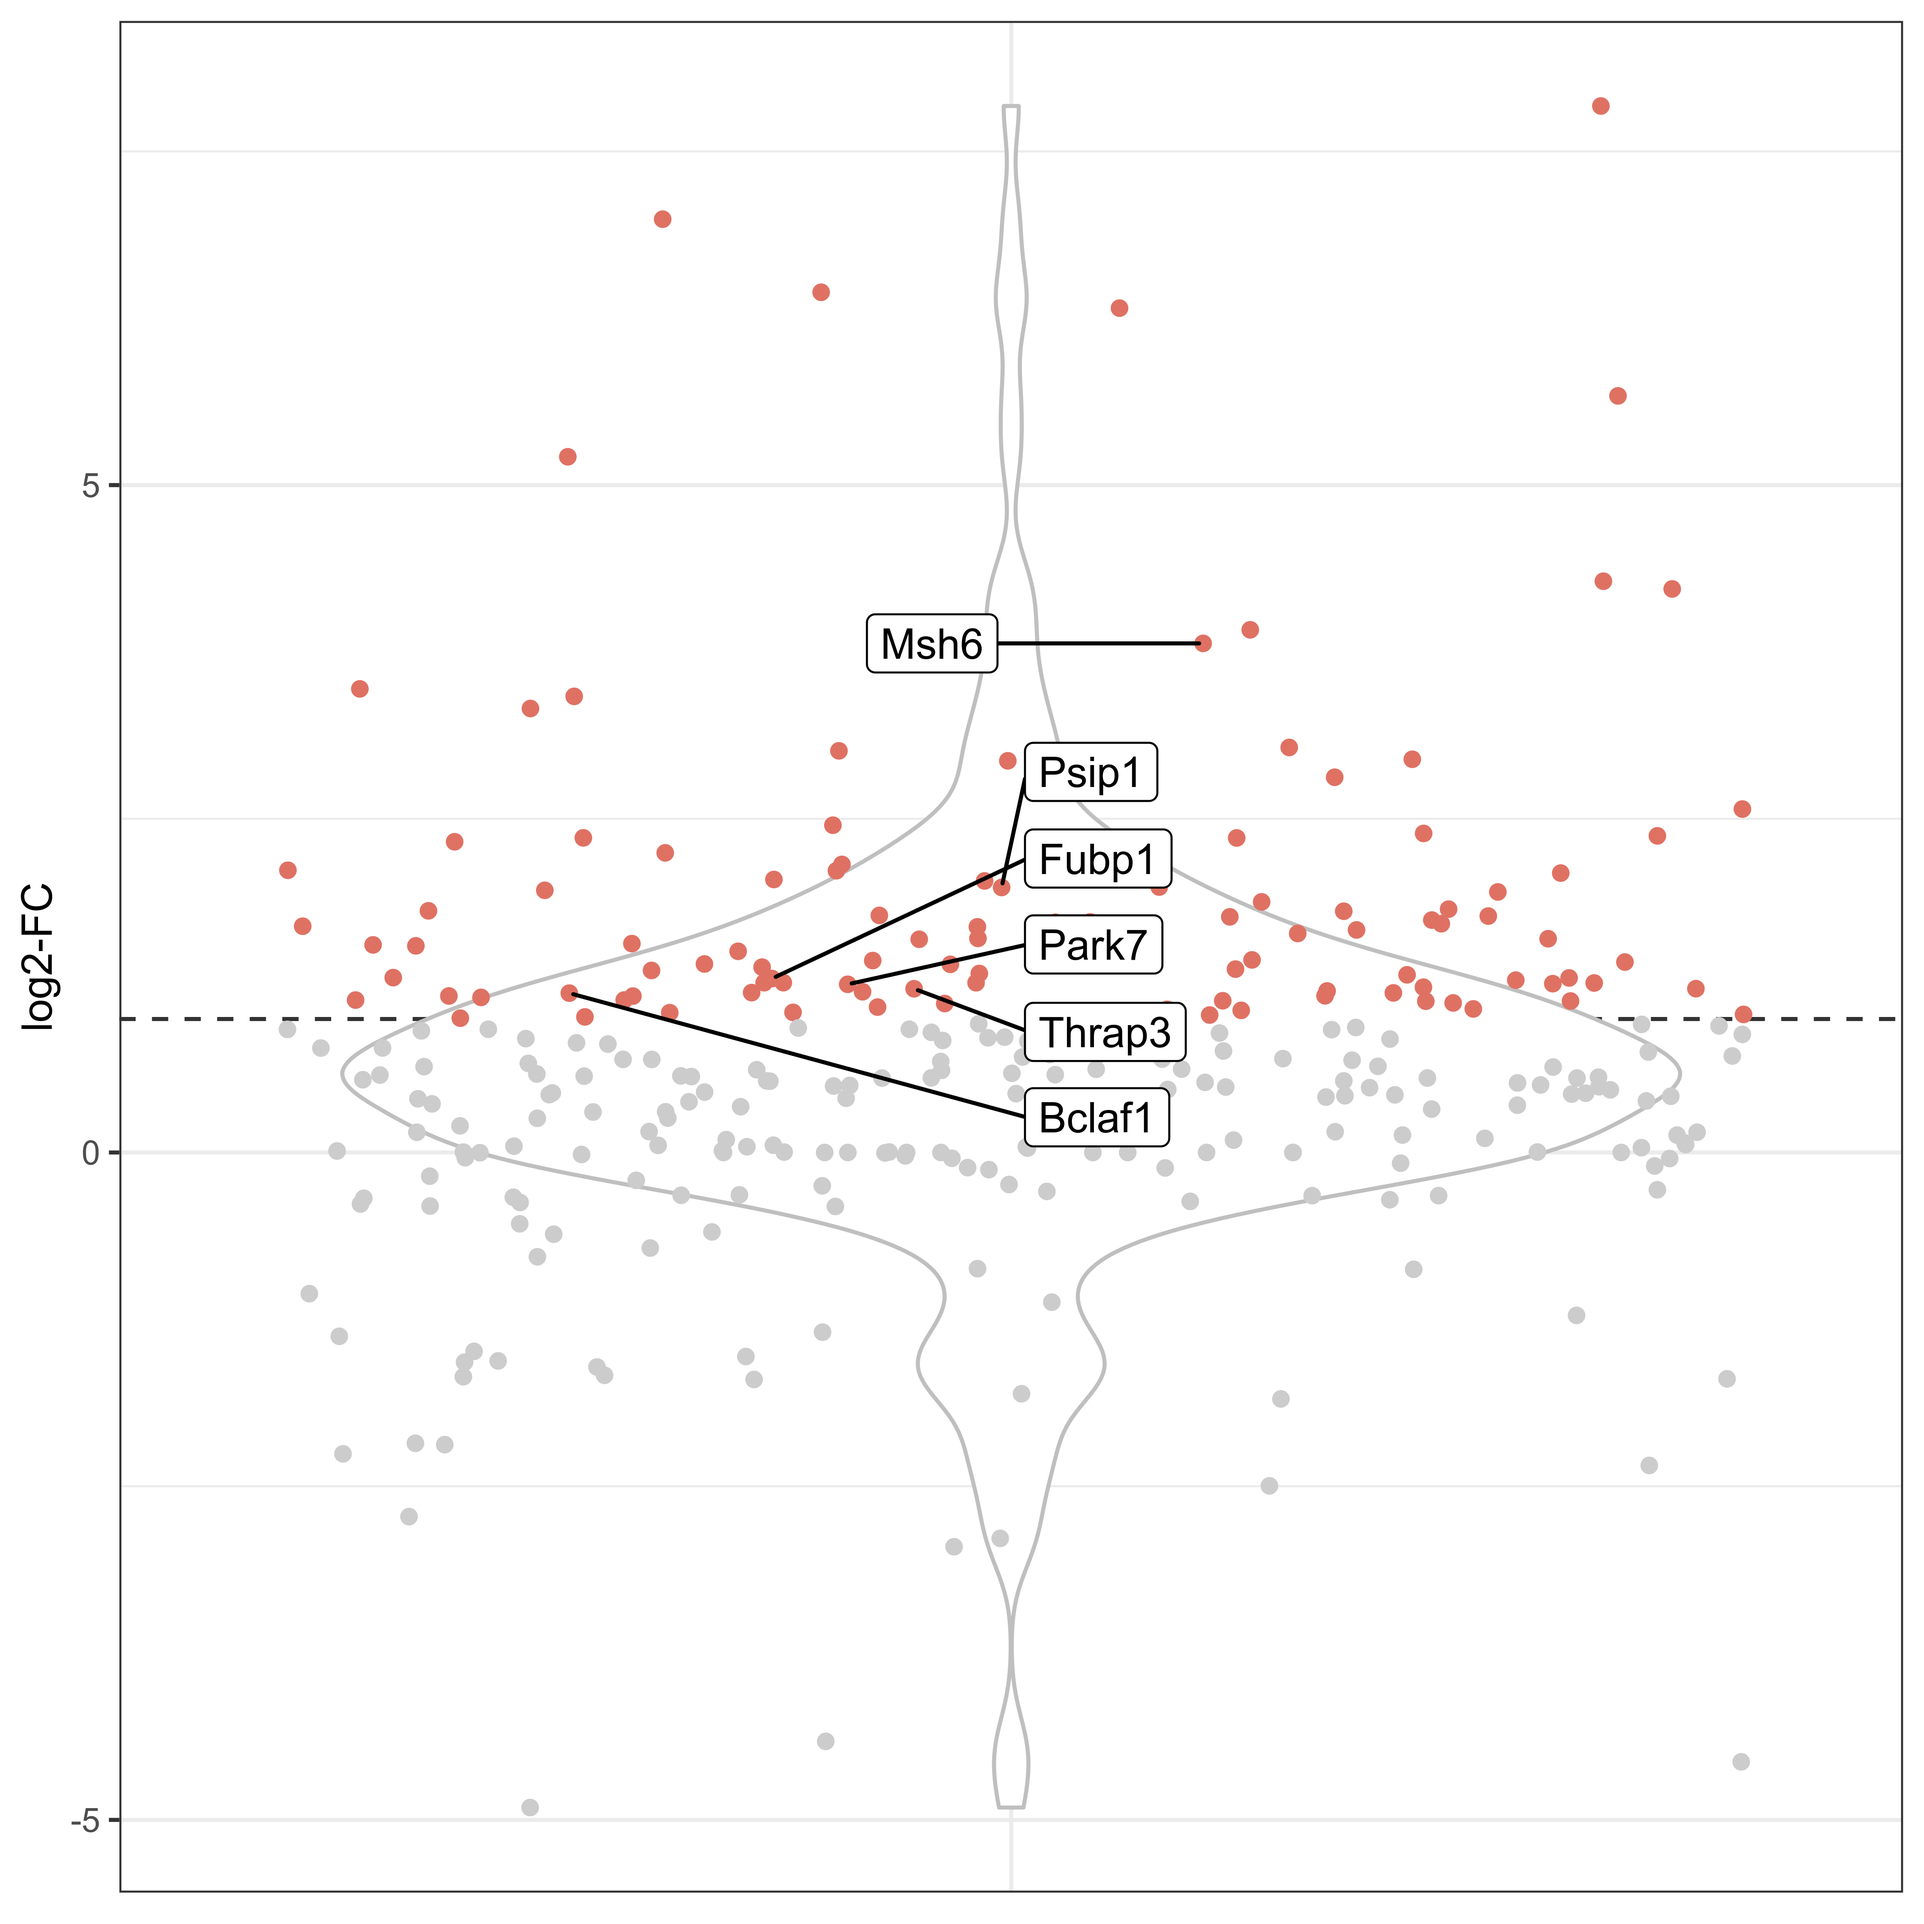
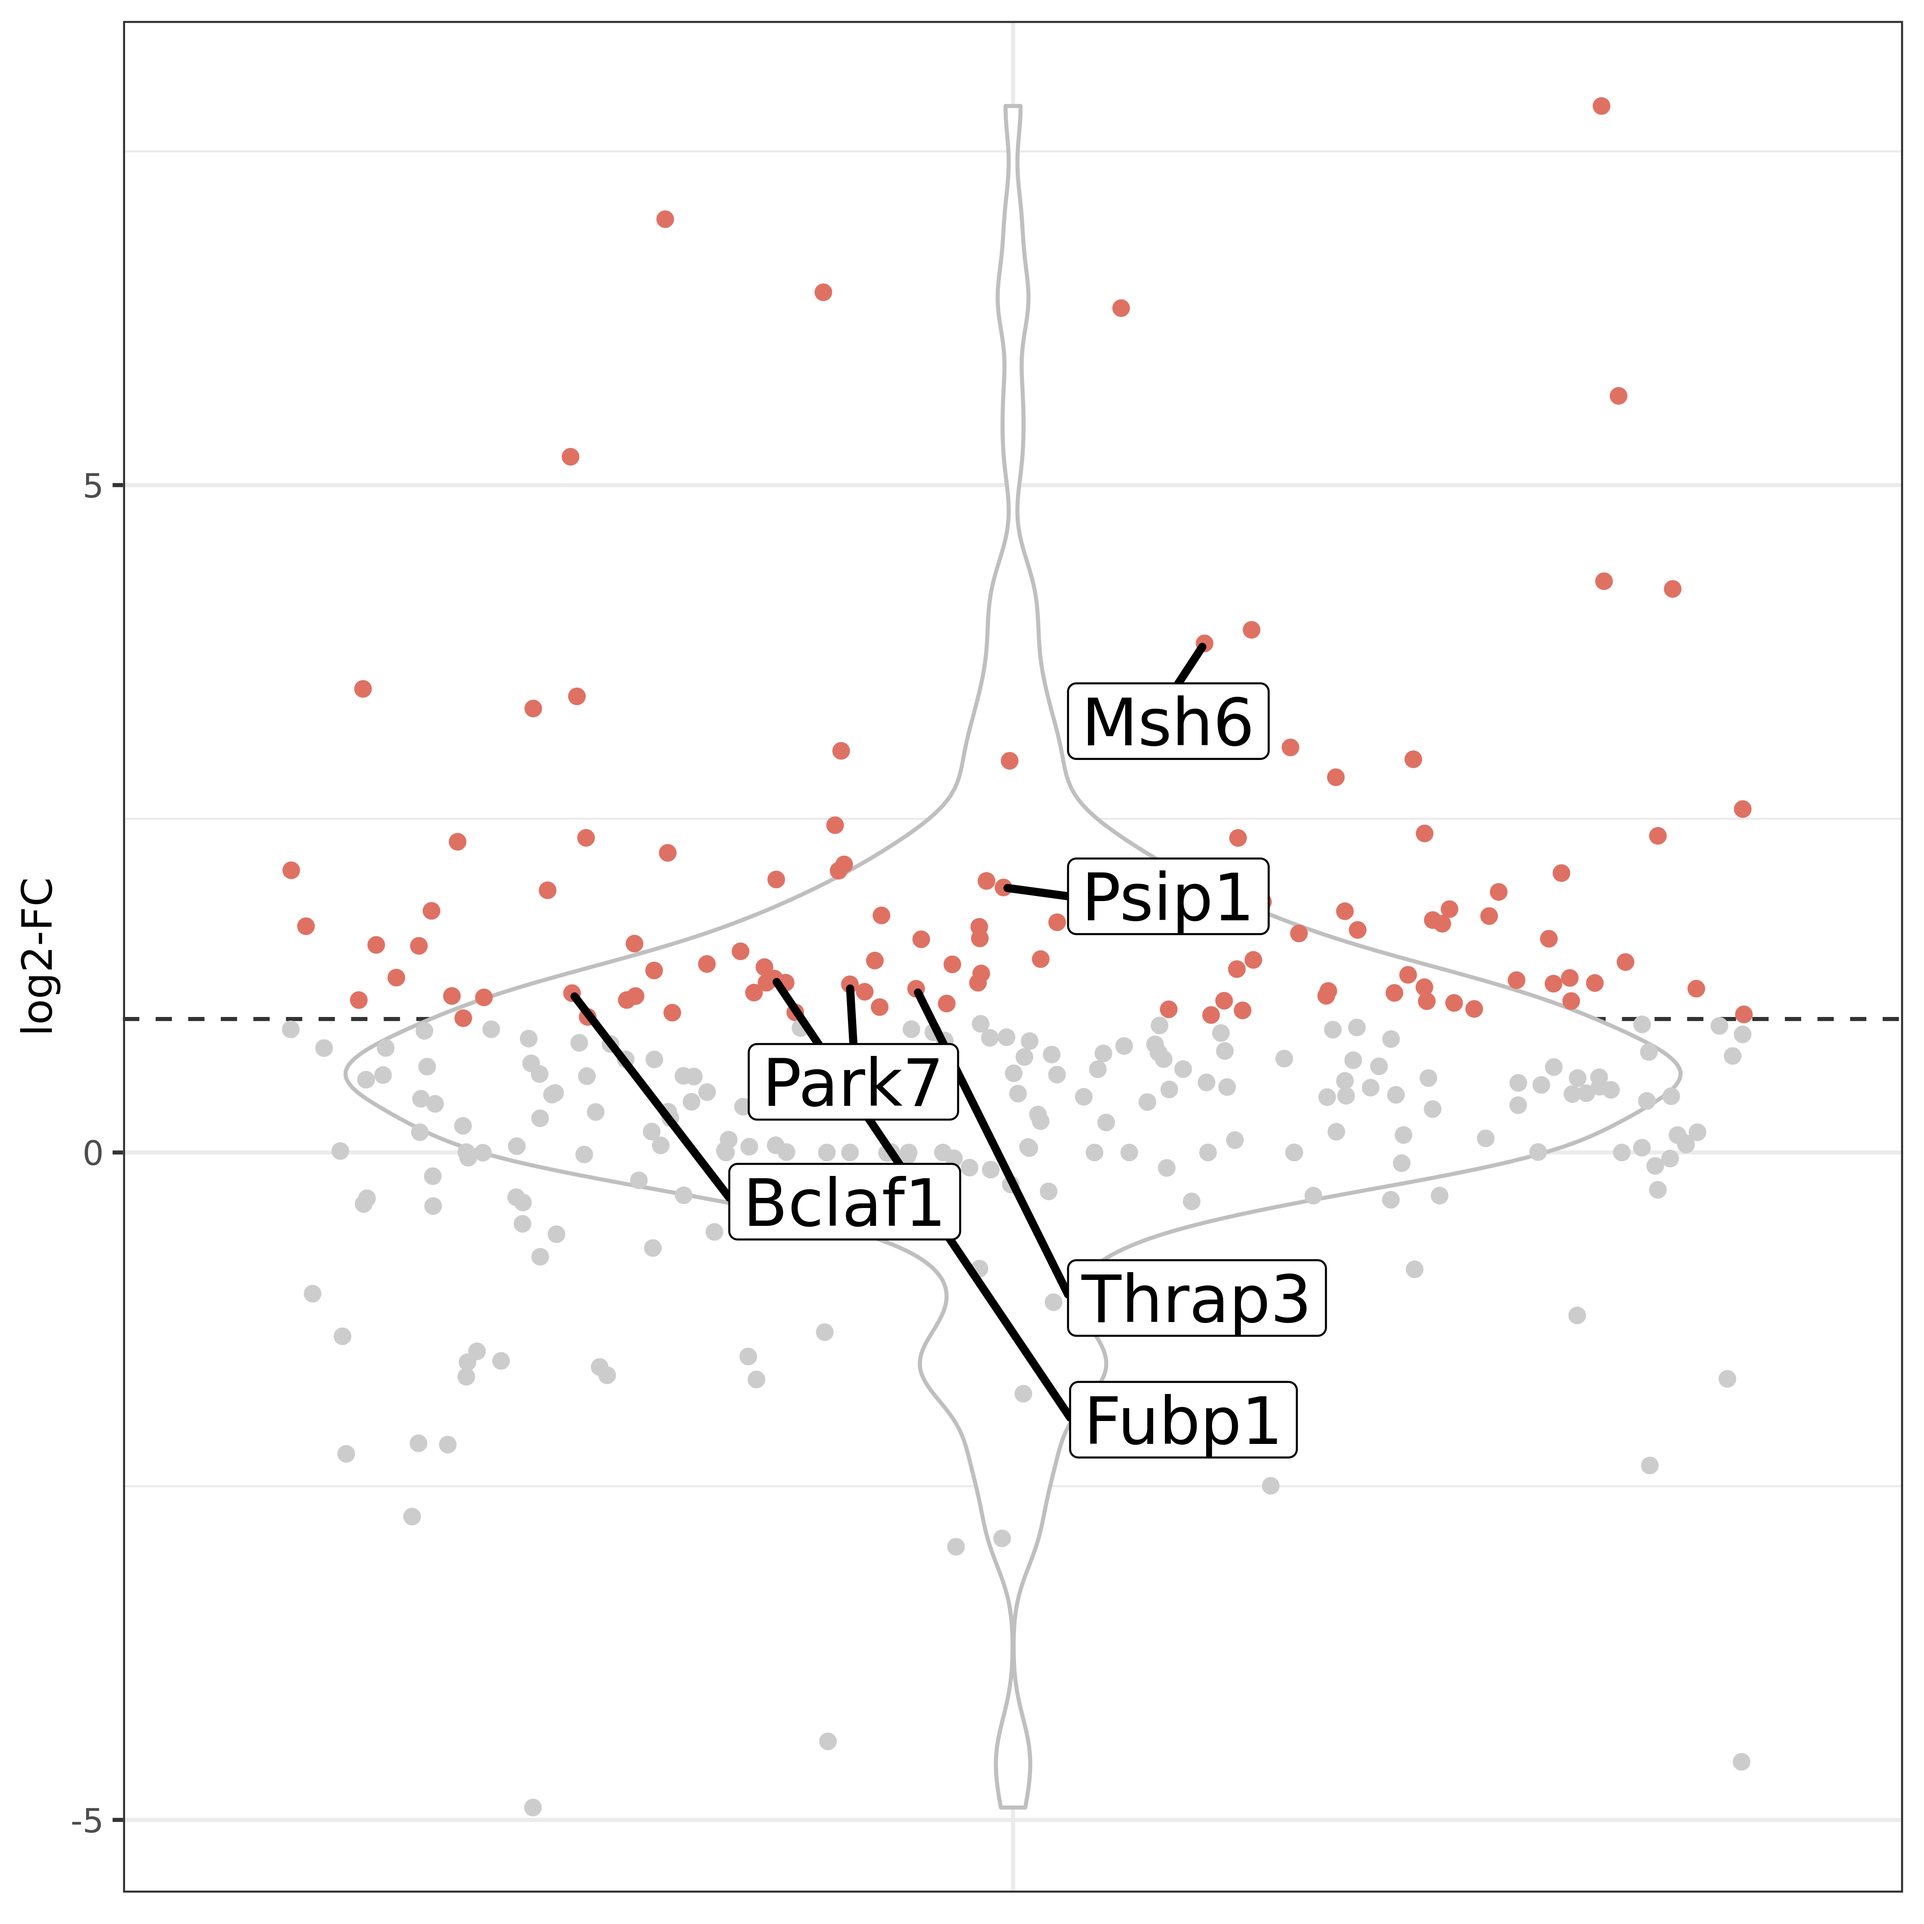
increase text size in dot plot

diff --git a/README.md b/README.md
@@ -10,10 +10,11 @@ A code repository to reproduce [Fig. 2B](https://raw.githubusercontent.com/akiku
 ## Execute
 
 ```r
-Rscript --vanilla --slave scripts/script.R
+Rscript --vanilla --slave scripts/dotplot.R
 ```
 
 The command produces a `reports` directory, which contains the followings:
 
 - `dotplot_log2fc.png`: Fig. 2B
+- `dotplot_log2fc.pdf`: Fig. 2B
 - `expression_log2fc.csv`: Gene expression data to generate Fig. 2B
